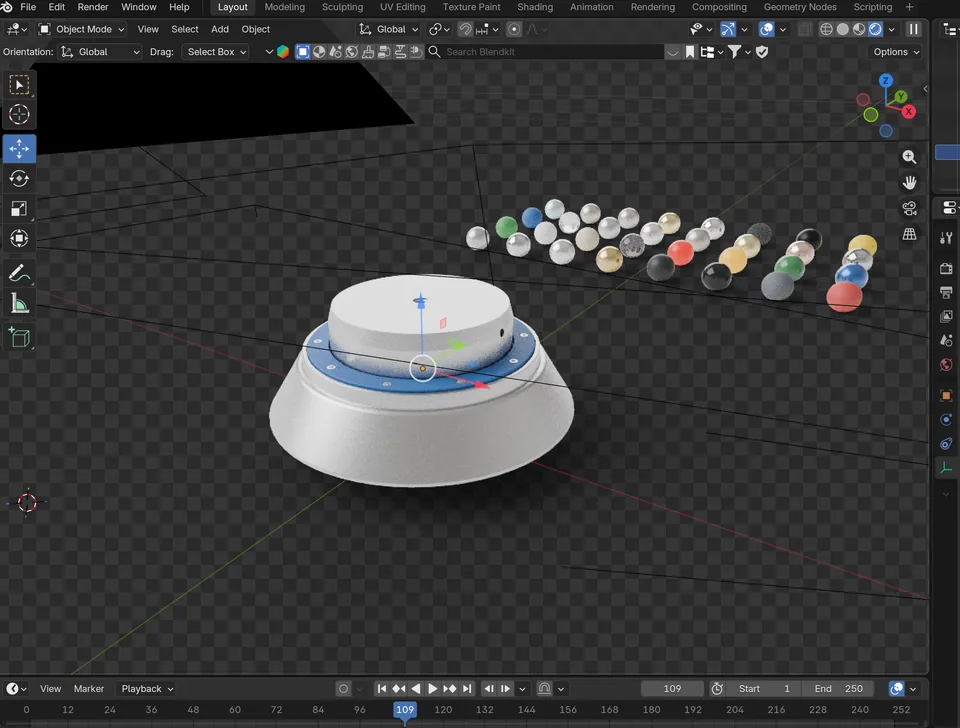
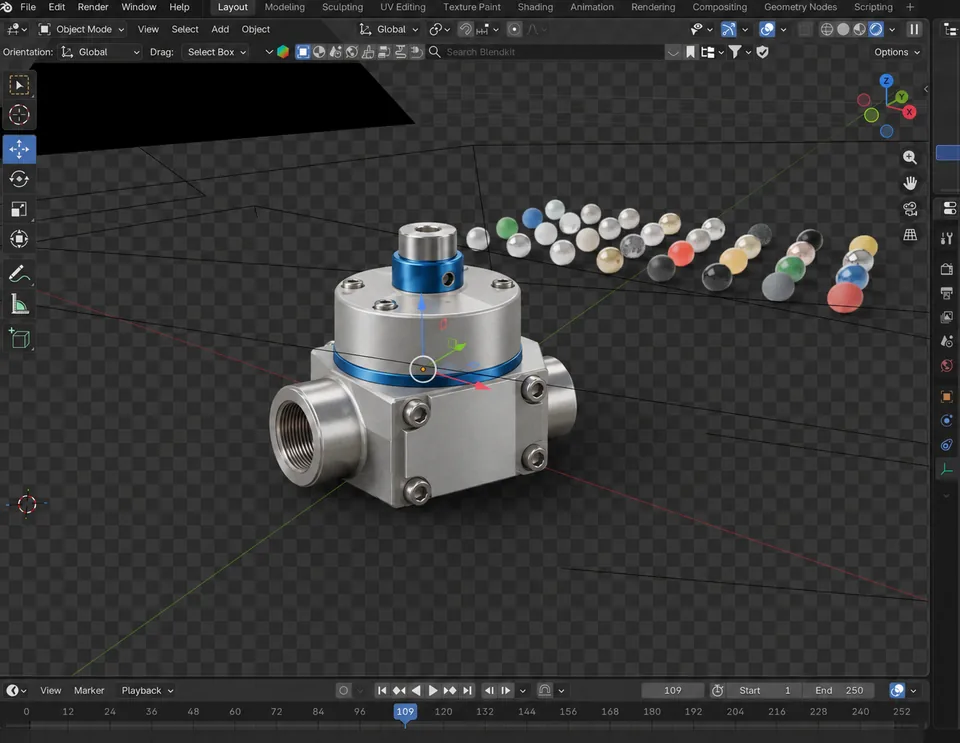
Corrige l'angle du cas Rendus 3D produits : modèles fournis ou modélisés, accent sur le rendu propre et répétable

diff --git a/realisations.html b/realisations.html
@@ -128,7 +128,7 @@
 <a href="index.html#contact" class="label nav-cta">Discuter du projet</a></nav></noscript>
 <!-- shared-header:end --><main>
 <section class="expertise-hero" style="--hero-image: url('Images/optimized/social-home.jpg')"><div class="hero-inner"><p class="breadcrumb"><a href="index.html">Accueil</a><span>/</span>Réalisations Unity, XR et UI/UX : des projets documentés</p><span class="eyebrow">RM Dev Design · Romain Maunier</span><h1>Réalisations Unity, XR et UI/UX : des projets documentés</h1><p class="hero-lead">Ces études de cas présentent les projets de RM Dev Design, activité freelance de Romain Maunier à Paris et à distance. Elles décrivent le besoin, les contraintes, le travail réalisé et les résultats déjà documentés sur le site.</p><div class="hero-actions"><a class="button-primary" href="index.html#contact">Parler de votre projet</a></div></div></section>
-<section class="content-section"><div class="section-heading"><h2>15 cas pour examiner les usages et les contraintes</h2></div><div class="card-grid realization-grid"><article class="content-card realization-card"><img src="Images/optimized/ImmersiveExp-card.webp" width="960" height="438" alt="Une machine industrielle complexe transformée en scénario de formation VR, avec un environnement réaliste et une utilisation continue sur salon." loading="lazy" decoding="async"><h2>Sécurité VR</h2><p><strong>Type / secteur :</strong> Formation · Formation</p><p>Une machine industrielle complexe transformée en scénario de formation VR, avec un environnement réaliste et une utilisation continue sur salon.</p><p><strong>Technologies documentées :</strong> Unity, VR, CAO, Optimisation 3D, Formation</p><p><strong>Mon rôle :</strong> Développement de l’application Unity en équipe avec un motion designer ; intégration de l’environnement, des animations et du scénario.</p><a class="related-link" href="cas-client-securite-vr.html">Lire l’étude de cas : Sécurité VR →</a></article><article class="content-card realization-card"><img src="Images/optimized/Demonstrateur-card.webp" width="960" height="402" alt="Un démonstrateur interactif pour expliquer une chaîne de traction hybride, ses flux d&#x27;énergie et son comportement dans différentes situations de conduite." loading="lazy" decoding="async"><h2>Démonstrateur Moteur</h2><p><strong>Type / secteur :</strong> Unity HDRP · Automobile</p><p>Un démonstrateur interactif pour expliquer une chaîne de traction hybride, ses flux d'énergie et son comportement dans différentes situations de conduite.</p><p><strong>Technologies documentées :</strong> Unity, HDRP, Automobile, Visualisation, Prototype</p><!-- TODO_CONTENT: confirmer le rôle personnel exact et le partage des responsabilités pour cas-client-demonstrateur-motorisation.html avant attribution supplémentaire. --><a class="related-link" href="cas-client-demonstrateur-motorisation.html">Lire l’étude de cas : Démonstrateur Moteur →</a></article><article class="content-card realization-card"><img src="Images/optimized/Reno-card.webp" width="960" height="540" alt="Prototype automobile sous Unity" loading="lazy" decoding="async"><h2>Systèmes Embarqués</h2><p><strong>Type / secteur :</strong> Automobile · Automobile</p><p>Une application Unity autour d’un simulateur de conduite pour explorer les interactions dans un cockpit automobile.</p><p><strong>Technologie :</strong> Unity</p><p><strong>Mon rôle :</strong> Développement de l’application Unity autour du simulateur de conduite.</p><a class="related-link" href="cas-client-systemes-embarques.html">Lire l’étude de cas : Systèmes Embarqués →</a></article><article class="content-card realization-card"><img src="Images/optimized/VRinCar-card.webp" width="960" height="560" alt="Une expérience marketing immersive pour présenter le Renault Triber dans trois environnements emblématiques de l&#x27;Inde, directement depuis son habitacle." loading="lazy" decoding="async"><h2>VR in Cockpit</h2><p><strong>Type / secteur :</strong> Expérience Immersive · Automobile</p><p>Une expérience marketing immersive pour présenter le Renault Triber dans trois environnements emblématiques de l'Inde, directement depuis son habitacle.</p><p><strong>Technologies documentées :</strong> Unity, HDRP, SolidWorks, FBX, PC VR</p><!-- TODO_CONTENT: confirmer le rôle personnel exact et le partage des responsabilités pour cas-client-vr-cockpit.html avant attribution supplémentaire. --><a class="related-link" href="cas-client-vr-cockpit.html">Lire l’étude de cas : VR in Cockpit →</a></article><article class="content-card realization-card"><img src="Images/optimized/formation-immersive-poster.webp" width="1920" height="1080" alt="Une salle de réunion virtuelle et un coach IA pour analyser le discours, la voix et l&#x27;attitude sans mobiliser un formateur à chaque session." loading="lazy" decoding="async"><h2>Formation immersive</h2><p><strong>Type / secteur :</strong> Formation · IA & VR · Formation</p><p>Une salle de réunion virtuelle et un coach IA pour analyser le discours, la voix et l'attitude sans mobiliser un formateur à chaque session.</p><p><strong>Technologies documentées :</strong> Unity, Meta Quest, IA, Analyse vocale, EdTech</p><!-- TODO_CONTENT: confirmer le rôle personnel exact et le partage des responsabilités pour cas-client-formation-immersive.html avant attribution supplémentaire. --><a class="related-link" href="cas-client-formation-immersive.html">Lire l’étude de cas : Formation immersive →</a></article><article class="content-card realization-card"><img src="Images/optimized/3DPlan-card.webp" width="960" height="540" alt="Une modélisation 3D, une visite temps réel et des visuels haute définition pour valider rapidement les volumes et présenter le projet." loading="lazy" decoding="async"><h2>Visualisation 3D immobilière</h2><p><strong>Type / secteur :</strong> Immobilier · Plan 2D → 3D · Immobilier</p><p>Une modélisation 3D, une visite temps réel et des visuels haute définition pour valider rapidement les volumes et présenter le projet.</p><p><strong>Technologies documentées :</strong> DWG, SolidWorks, 3D temps réel, Walkthrough 4K, Immobilier</p><!-- TODO_CONTENT: confirmer le rôle personnel exact et le partage des responsabilités pour cas-client-plan-3d.html avant attribution supplémentaire. --><a class="related-link" href="cas-client-plan-3d.html">Lire l’étude de cas : Visualisation 3D immobilière →</a></article><article class="content-card realization-card"><img src="Images/optimized/XRSHARE-card.webp" width="960" height="749" alt="Un prototype de co-créativité à distance réunissant des participants en réalité virtuelle, en réalité augmentée et sur écran classique." loading="lazy" decoding="async"><h2>XR Share</h2><p><strong>Type / secteur :</strong> Multijoueur AR/VR · R&D</p><p>Un prototype de co-créativité à distance réunissant des participants en réalité virtuelle, en réalité augmentée et sur écran classique.</p><p><strong>Technologies documentées :</strong> Unity, Photon PUN 2, VR, AR, Multiplateforme</p><!-- TODO_CONTENT: confirmer le rôle personnel exact et le partage des responsabilités pour cas-client-xr-share.html avant attribution supplémentaire. --><a class="related-link" href="cas-client-xr-share.html">Lire l’étude de cas : XR Share →</a></article><article class="content-card realization-card"><img src="Images/optimized/VisitesVirtuelles-card.webp" width="960" height="644" alt="Transformation de plans DWG en appartement visitable à l&#x27;échelle, avec une application compatible Meta Quest 3 et un walkthrough vidéo 4K." loading="lazy" decoding="async"><h2>Visites Virtuelles</h2><p><strong>Type / secteur :</strong> Immobilier · Immobilier</p><p>Transformation de plans DWG en appartement visitable à l'échelle, avec une application compatible Meta Quest 3 et un walkthrough vidéo 4K.</p><p><strong>Technologies documentées :</strong> Unity, URP, SolidWorks, Compatible Meta Quest 3, C#</p><!-- TODO_CONTENT: confirmer le rôle personnel exact et le partage des responsabilités pour cas-client-visite-vr-immobilier.html avant attribution supplémentaire. --><a class="related-link" href="cas-client-visite-vr-immobilier.html">Lire l’étude de cas : Visites Virtuelles →</a></article><article class="content-card realization-card"><img src="Images/optimized/Calypshome-card.webp" width="960" height="807" alt="Conception complète d&#x27;une application mobile pilotant volets, stores et brise-soleil orientables, depuis le cahier des charges jusqu&#x27;au kit développeur." loading="lazy" decoding="async"><h2>App Domotique</h2><p><strong>Type / secteur :</strong> UI / UX Design · UI/UX</p><p>Conception complète d'une application mobile pilotant volets, stores et brise-soleil orientables, depuis le cahier des charges jusqu'au kit développeur.</p><p><strong>Technologies documentées :</strong> Figma, Design system, Wireframes, DevMode, Mobile</p><p><strong>Mon rôle :</strong> UI/UX et livraison des maquettes et composants aux développeurs ; développement de l’application réalisé par une autre équipe.</p><a class="related-link" href="cas-client-ui-ux-domotique.html">Lire l’étude de cas : App Domotique →</a></article><article class="content-card realization-card"><img src="Images/optimized/Ergonomie-card.webp" width="960" height="776" alt="Une maquette virtuelle à l&#x27;échelle pour tester la position des commandes, les zones de confort et les amplitudes de mouvement." loading="lazy" decoding="async"><h2>Ergonomie Cockpit</h2><p><strong>Type / secteur :</strong> R&D · R&D</p><p>Une maquette virtuelle à l'échelle pour tester la position des commandes, les zones de confort et les amplitudes de mouvement.</p><p><strong>Technologies documentées :</strong> Unity, VR, Leap Motion, Ergonomie, Cockpit</p><!-- TODO_CONTENT: confirmer le rôle personnel exact et le partage des responsabilités pour cas-client-ergonomie-cockpit.html avant attribution supplémentaire. --><a class="related-link" href="cas-client-ergonomie-cockpit.html">Lire l’étude de cas : Ergonomie Cockpit →</a></article><article class="content-card realization-card"><img src="Images/optimized/AR-card.webp" width="960" height="480" alt="Une application de réalité augmentée conçue pour guider les visiteurs autour d&#x27;un véhicule et expliquer ses équipements invisibles." loading="lazy" decoding="async"><h2>Réalité Augmentée</h2><p><strong>Type / secteur :</strong> Mobile · Automobile</p><p>Une application de réalité augmentée conçue pour guider les visiteurs autour d'un véhicule et expliquer ses équipements invisibles.</p><p><strong>Technologies documentées :</strong> Unity, Vuforia, Réalité augmentée, Tablette, Optimisation 3D</p><!-- TODO_CONTENT: confirmer le rôle personnel exact et le partage des responsabilités pour cas-client-realite-augmentee-automobile.html avant attribution supplémentaire. --><a class="related-link" href="cas-client-realite-augmentee-automobile.html">Lire l’étude de cas : Réalité Augmentée →</a></article><article class="content-card realization-card"><img src="Images/optimized/ShowroomVR-card.webp" width="960" height="564" alt="Un showroom virtuel pour parcourir, comparer et configurer plus de 50 références de portes dans un espace qui tient dans un casque." loading="lazy" decoding="async"><h2>ShowRoom VR</h2><p><strong>Type / secteur :</strong> Réalité Virtuelle · Commerce</p><p>Un showroom virtuel pour parcourir, comparer et configurer plus de 50 références de portes dans un espace qui tient dans un casque.</p><p><strong>Technologies documentées :</strong> Unity, VR, Configurateur, Showroom, Catalogue 3D</p><!-- TODO_CONTENT: confirmer le rôle personnel exact et le partage des responsabilités pour cas-client-showroom-vr.html avant attribution supplémentaire. --><a class="related-link" href="cas-client-showroom-vr.html">Lire l’étude de cas : ShowRoom VR →</a></article><article class="content-card realization-card"><img src="Images/optimized/FloatAndSerious-card.webp" width="960" height="521" alt="Un configurateur 3D en réalité virtuelle pour faire varier la motorisation et les équipements d&#x27;un bateau, conçu pour un hackathon étudiant." loading="lazy" decoding="async"><h2>Float and Serious</h2><p><strong>Type / secteur :</strong> Hackathon · Pédagogie</p><p>Un hackathon de trois jours à CentraleSupélec, dans le cadre du parcours doctoral DRIVE : des expériences VR pour ancrer les équipes dans des situations réelles, dont le configurateur 3D du projet étudiant Float and Serious.</p><p><strong>Technologies documentées :</strong> Unity, VR, Configurateur 3D, Data visualisation, Pédagogie</p><p><strong>Mon rôle :</strong> Conception et développement des expériences VR, animation des temps de visualisation de données.</p><a class="related-link" href="cas-client-float-and-serious.html">Lire l’étude de cas : Float and Serious →</a></article><article class="content-card realization-card"><img src="Images/optimized/Rendus3D-card.webp" width="960" height="728" alt="Une pièce modélisée sous Blender entourée d&#x27;une bibliothèque de matériaux, pour un pipeline de rendu 3D appliqué à un catalogue produit." loading="lazy" decoding="async"><h2>Rendus 3D produits</h2><p><strong>Type / secteur :</strong> Blender · Production 3D</p><p>Plus de 300 pièces modélisées et rendues sous Blender pour mettre à jour le catalogue visuel d’un site e-commerce, sans mobiliser de studio photo.</p><p><strong>Technologie :</strong> Blender</p><p><strong>Mon rôle :</strong> Modélisation, bibliothèque de matériaux et rendu de l’ensemble des pièces du catalogue.</p><a class="related-link" href="cas-client-rendus-3d-produits.html">Lire l’étude de cas : Rendus 3D produits →</a></article><article class="content-card realization-card"><img src="Images/optimized/FlightControl-card.webp" width="960" height="500" alt="Une interface 3D d&#x27;avion avec horizon artificiel et indicateurs de vol, pilotée par les données d&#x27;un capteur externe pour des travaux dirigés." loading="lazy" decoding="async"><h2>Flight Control</h2><p><strong>Type / secteur :</strong> Pédagogie · Web 3D</p><p>Une interface pour travaux dirigés étudiants : intégrer les données d’un capteur externe pour piloter en temps réel un horizon artificiel, le tangage, l’altitude et le cap d’un avion en 3D.</p><p><strong>Technologies documentées :</strong> Three.js, Web 3D, Capteurs externes, Pédagogie</p><p><strong>Mon rôle :</strong> Conception et développement de l’interface 3D et de l’intégration des données capteurs.</p><a class="related-link" href="cas-client-flight-control.html">Lire l’étude de cas : Flight Control →</a></article></div></section><aside class="expertise-cta"><div><h2>Un besoin à rendre concret ?</h2><p>Présentez l’objectif, le matériel, les contenus disponibles et l’échéance. Le premier échange sert à cadrer un livrable et les conditions de validation.</p></div><a class="button-primary" href="index.html#contact">Parler de votre projet</a></aside>
+<section class="content-section"><div class="section-heading"><h2>15 cas pour examiner les usages et les contraintes</h2></div><div class="card-grid realization-grid"><article class="content-card realization-card"><img src="Images/optimized/ImmersiveExp-card.webp" width="960" height="438" alt="Une machine industrielle complexe transformée en scénario de formation VR, avec un environnement réaliste et une utilisation continue sur salon." loading="lazy" decoding="async"><h2>Sécurité VR</h2><p><strong>Type / secteur :</strong> Formation · Formation</p><p>Une machine industrielle complexe transformée en scénario de formation VR, avec un environnement réaliste et une utilisation continue sur salon.</p><p><strong>Technologies documentées :</strong> Unity, VR, CAO, Optimisation 3D, Formation</p><p><strong>Mon rôle :</strong> Développement de l’application Unity en équipe avec un motion designer ; intégration de l’environnement, des animations et du scénario.</p><a class="related-link" href="cas-client-securite-vr.html">Lire l’étude de cas : Sécurité VR →</a></article><article class="content-card realization-card"><img src="Images/optimized/Demonstrateur-card.webp" width="960" height="402" alt="Un démonstrateur interactif pour expliquer une chaîne de traction hybride, ses flux d&#x27;énergie et son comportement dans différentes situations de conduite." loading="lazy" decoding="async"><h2>Démonstrateur Moteur</h2><p><strong>Type / secteur :</strong> Unity HDRP · Automobile</p><p>Un démonstrateur interactif pour expliquer une chaîne de traction hybride, ses flux d'énergie et son comportement dans différentes situations de conduite.</p><p><strong>Technologies documentées :</strong> Unity, HDRP, Automobile, Visualisation, Prototype</p><!-- TODO_CONTENT: confirmer le rôle personnel exact et le partage des responsabilités pour cas-client-demonstrateur-motorisation.html avant attribution supplémentaire. --><a class="related-link" href="cas-client-demonstrateur-motorisation.html">Lire l’étude de cas : Démonstrateur Moteur →</a></article><article class="content-card realization-card"><img src="Images/optimized/Reno-card.webp" width="960" height="540" alt="Prototype automobile sous Unity" loading="lazy" decoding="async"><h2>Systèmes Embarqués</h2><p><strong>Type / secteur :</strong> Automobile · Automobile</p><p>Une application Unity autour d’un simulateur de conduite pour explorer les interactions dans un cockpit automobile.</p><p><strong>Technologie :</strong> Unity</p><p><strong>Mon rôle :</strong> Développement de l’application Unity autour du simulateur de conduite.</p><a class="related-link" href="cas-client-systemes-embarques.html">Lire l’étude de cas : Systèmes Embarqués →</a></article><article class="content-card realization-card"><img src="Images/optimized/VRinCar-card.webp" width="960" height="560" alt="Une expérience marketing immersive pour présenter le Renault Triber dans trois environnements emblématiques de l&#x27;Inde, directement depuis son habitacle." loading="lazy" decoding="async"><h2>VR in Cockpit</h2><p><strong>Type / secteur :</strong> Expérience Immersive · Automobile</p><p>Une expérience marketing immersive pour présenter le Renault Triber dans trois environnements emblématiques de l'Inde, directement depuis son habitacle.</p><p><strong>Technologies documentées :</strong> Unity, HDRP, SolidWorks, FBX, PC VR</p><!-- TODO_CONTENT: confirmer le rôle personnel exact et le partage des responsabilités pour cas-client-vr-cockpit.html avant attribution supplémentaire. --><a class="related-link" href="cas-client-vr-cockpit.html">Lire l’étude de cas : VR in Cockpit →</a></article><article class="content-card realization-card"><img src="Images/optimized/formation-immersive-poster.webp" width="1920" height="1080" alt="Une salle de réunion virtuelle et un coach IA pour analyser le discours, la voix et l&#x27;attitude sans mobiliser un formateur à chaque session." loading="lazy" decoding="async"><h2>Formation immersive</h2><p><strong>Type / secteur :</strong> Formation · IA & VR · Formation</p><p>Une salle de réunion virtuelle et un coach IA pour analyser le discours, la voix et l'attitude sans mobiliser un formateur à chaque session.</p><p><strong>Technologies documentées :</strong> Unity, Meta Quest, IA, Analyse vocale, EdTech</p><!-- TODO_CONTENT: confirmer le rôle personnel exact et le partage des responsabilités pour cas-client-formation-immersive.html avant attribution supplémentaire. --><a class="related-link" href="cas-client-formation-immersive.html">Lire l’étude de cas : Formation immersive →</a></article><article class="content-card realization-card"><img src="Images/optimized/3DPlan-card.webp" width="960" height="540" alt="Une modélisation 3D, une visite temps réel et des visuels haute définition pour valider rapidement les volumes et présenter le projet." loading="lazy" decoding="async"><h2>Visualisation 3D immobilière</h2><p><strong>Type / secteur :</strong> Immobilier · Plan 2D → 3D · Immobilier</p><p>Une modélisation 3D, une visite temps réel et des visuels haute définition pour valider rapidement les volumes et présenter le projet.</p><p><strong>Technologies documentées :</strong> DWG, SolidWorks, 3D temps réel, Walkthrough 4K, Immobilier</p><!-- TODO_CONTENT: confirmer le rôle personnel exact et le partage des responsabilités pour cas-client-plan-3d.html avant attribution supplémentaire. --><a class="related-link" href="cas-client-plan-3d.html">Lire l’étude de cas : Visualisation 3D immobilière →</a></article><article class="content-card realization-card"><img src="Images/optimized/XRSHARE-card.webp" width="960" height="749" alt="Un prototype de co-créativité à distance réunissant des participants en réalité virtuelle, en réalité augmentée et sur écran classique." loading="lazy" decoding="async"><h2>XR Share</h2><p><strong>Type / secteur :</strong> Multijoueur AR/VR · R&D</p><p>Un prototype de co-créativité à distance réunissant des participants en réalité virtuelle, en réalité augmentée et sur écran classique.</p><p><strong>Technologies documentées :</strong> Unity, Photon PUN 2, VR, AR, Multiplateforme</p><!-- TODO_CONTENT: confirmer le rôle personnel exact et le partage des responsabilités pour cas-client-xr-share.html avant attribution supplémentaire. --><a class="related-link" href="cas-client-xr-share.html">Lire l’étude de cas : XR Share →</a></article><article class="content-card realization-card"><img src="Images/optimized/VisitesVirtuelles-card.webp" width="960" height="644" alt="Transformation de plans DWG en appartement visitable à l&#x27;échelle, avec une application compatible Meta Quest 3 et un walkthrough vidéo 4K." loading="lazy" decoding="async"><h2>Visites Virtuelles</h2><p><strong>Type / secteur :</strong> Immobilier · Immobilier</p><p>Transformation de plans DWG en appartement visitable à l'échelle, avec une application compatible Meta Quest 3 et un walkthrough vidéo 4K.</p><p><strong>Technologies documentées :</strong> Unity, URP, SolidWorks, Compatible Meta Quest 3, C#</p><!-- TODO_CONTENT: confirmer le rôle personnel exact et le partage des responsabilités pour cas-client-visite-vr-immobilier.html avant attribution supplémentaire. --><a class="related-link" href="cas-client-visite-vr-immobilier.html">Lire l’étude de cas : Visites Virtuelles →</a></article><article class="content-card realization-card"><img src="Images/optimized/Calypshome-card.webp" width="960" height="807" alt="Conception complète d&#x27;une application mobile pilotant volets, stores et brise-soleil orientables, depuis le cahier des charges jusqu&#x27;au kit développeur." loading="lazy" decoding="async"><h2>App Domotique</h2><p><strong>Type / secteur :</strong> UI / UX Design · UI/UX</p><p>Conception complète d'une application mobile pilotant volets, stores et brise-soleil orientables, depuis le cahier des charges jusqu'au kit développeur.</p><p><strong>Technologies documentées :</strong> Figma, Design system, Wireframes, DevMode, Mobile</p><p><strong>Mon rôle :</strong> UI/UX et livraison des maquettes et composants aux développeurs ; développement de l’application réalisé par une autre équipe.</p><a class="related-link" href="cas-client-ui-ux-domotique.html">Lire l’étude de cas : App Domotique →</a></article><article class="content-card realization-card"><img src="Images/optimized/Ergonomie-card.webp" width="960" height="776" alt="Une maquette virtuelle à l&#x27;échelle pour tester la position des commandes, les zones de confort et les amplitudes de mouvement." loading="lazy" decoding="async"><h2>Ergonomie Cockpit</h2><p><strong>Type / secteur :</strong> R&D · R&D</p><p>Une maquette virtuelle à l'échelle pour tester la position des commandes, les zones de confort et les amplitudes de mouvement.</p><p><strong>Technologies documentées :</strong> Unity, VR, Leap Motion, Ergonomie, Cockpit</p><!-- TODO_CONTENT: confirmer le rôle personnel exact et le partage des responsabilités pour cas-client-ergonomie-cockpit.html avant attribution supplémentaire. --><a class="related-link" href="cas-client-ergonomie-cockpit.html">Lire l’étude de cas : Ergonomie Cockpit →</a></article><article class="content-card realization-card"><img src="Images/optimized/AR-card.webp" width="960" height="480" alt="Une application de réalité augmentée conçue pour guider les visiteurs autour d&#x27;un véhicule et expliquer ses équipements invisibles." loading="lazy" decoding="async"><h2>Réalité Augmentée</h2><p><strong>Type / secteur :</strong> Mobile · Automobile</p><p>Une application de réalité augmentée conçue pour guider les visiteurs autour d'un véhicule et expliquer ses équipements invisibles.</p><p><strong>Technologies documentées :</strong> Unity, Vuforia, Réalité augmentée, Tablette, Optimisation 3D</p><!-- TODO_CONTENT: confirmer le rôle personnel exact et le partage des responsabilités pour cas-client-realite-augmentee-automobile.html avant attribution supplémentaire. --><a class="related-link" href="cas-client-realite-augmentee-automobile.html">Lire l’étude de cas : Réalité Augmentée →</a></article><article class="content-card realization-card"><img src="Images/optimized/ShowroomVR-card.webp" width="960" height="564" alt="Un showroom virtuel pour parcourir, comparer et configurer plus de 50 références de portes dans un espace qui tient dans un casque." loading="lazy" decoding="async"><h2>ShowRoom VR</h2><p><strong>Type / secteur :</strong> Réalité Virtuelle · Commerce</p><p>Un showroom virtuel pour parcourir, comparer et configurer plus de 50 références de portes dans un espace qui tient dans un casque.</p><p><strong>Technologies documentées :</strong> Unity, VR, Configurateur, Showroom, Catalogue 3D</p><!-- TODO_CONTENT: confirmer le rôle personnel exact et le partage des responsabilités pour cas-client-showroom-vr.html avant attribution supplémentaire. --><a class="related-link" href="cas-client-showroom-vr.html">Lire l’étude de cas : ShowRoom VR →</a></article><article class="content-card realization-card"><img src="Images/optimized/FloatAndSerious-card.webp" width="960" height="521" alt="Un configurateur 3D en réalité virtuelle pour faire varier la motorisation et les équipements d&#x27;un bateau, conçu pour un hackathon étudiant." loading="lazy" decoding="async"><h2>Float and Serious</h2><p><strong>Type / secteur :</strong> Hackathon · Pédagogie</p><p>Un hackathon de trois jours à CentraleSupélec, dans le cadre du parcours doctoral DRIVE : des expériences VR pour ancrer les équipes dans des situations réelles, dont le configurateur 3D du projet étudiant Float and Serious.</p><p><strong>Technologies documentées :</strong> Unity, VR, Configurateur 3D, Data visualisation, Pédagogie</p><p><strong>Mon rôle :</strong> Conception et développement des expériences VR, animation des temps de visualisation de données.</p><a class="related-link" href="cas-client-float-and-serious.html">Lire l’étude de cas : Float and Serious →</a></article><article class="content-card realization-card"><img src="Images/optimized/Rendus3D-card.webp" width="960" height="743" alt="Une vanne industrielle modélisée sous Blender entourée d&#x27;une bibliothèque de matériaux, pour un pipeline de rendu 3D propre et répétable." loading="lazy" decoding="async"><h2>Rendus 3D produits</h2><p><strong>Type / secteur :</strong> Blender · Production 3D</p><p>Plus de 300 pièces rendues sous Blender pour un catalogue industriel, modèles fournis par le client ou modélisés, avec un rendu propre et répétable sur l’ensemble des références.</p><p><strong>Technologie :</strong> Blender</p><p><strong>Mon rôle :</strong> Modélisation des pièces non fournies en 3D, bibliothèque de matériaux et rendu de l’ensemble du catalogue.</p><a class="related-link" href="cas-client-rendus-3d-produits.html">Lire l’étude de cas : Rendus 3D produits →</a></article><article class="content-card realization-card"><img src="Images/optimized/FlightControl-card.webp" width="960" height="500" alt="Une interface 3D d&#x27;avion avec horizon artificiel et indicateurs de vol, pilotée par les données d&#x27;un capteur externe pour des travaux dirigés." loading="lazy" decoding="async"><h2>Flight Control</h2><p><strong>Type / secteur :</strong> Pédagogie · Web 3D</p><p>Une interface pour travaux dirigés étudiants : intégrer les données d’un capteur externe pour piloter en temps réel un horizon artificiel, le tangage, l’altitude et le cap d’un avion en 3D.</p><p><strong>Technologies documentées :</strong> Three.js, Web 3D, Capteurs externes, Pédagogie</p><p><strong>Mon rôle :</strong> Conception et développement de l’interface 3D et de l’intégration des données capteurs.</p><a class="related-link" href="cas-client-flight-control.html">Lire l’étude de cas : Flight Control →</a></article></div></section><aside class="expertise-cta"><div><h2>Un besoin à rendre concret ?</h2><p>Présentez l’objectif, le matériel, les contenus disponibles et l’échéance. Le premier échange sert à cadrer un livrable et les conditions de validation.</p></div><a class="button-primary" href="index.html#contact">Parler de votre projet</a></aside>
 <section class="related-section"><h2>Pour approfondir votre projet</h2><div class="related-links"><a class="related-link" href="developpement-vr-unity.html">Unity XR freelance →</a><a class="related-link" href="demonstrateur-vr-industriel.html">Démonstrateur industriel →</a><a class="related-link" href="design-ui-ux-figma.html">Design UI/UX →</a></div></section></main><footer class="expertise-footer">
     <div class="expertise-footer-inner">
       <a href="index.html"><img src="Images/RMDesignLogo.png" width="3768" height="512" loading="lazy" decoding="async" alt="RMDev.Design"></a>

diff --git a/cas-client-rendus-3d-produits.html b/cas-client-rendus-3d-produits.html
@@ -3,20 +3,20 @@
 <head>
   <meta charset="UTF-8"><meta name="viewport" content="width=device-width, initial-scale=1.0"><meta name="theme-color" content="#0f1115"><meta name="robots" content="index, follow, max-image-preview:large">
   <title>Rendus 3D produits sous Blender | RM Dev Design</title>
-  <meta name="description" content="Plus de 300 pièces modélisées et rendues sous Blender pour la mise à jour du catalogue visuel d'un site e-commerce industriel.">
+  <meta name="description" content="Plus de 300 pièces rendues sous Blender pour un catalogue industriel : modèles fournis par le client ou modélisés, rendu propre et répétable.">
   <link rel="canonical" href="https://rmdev.design/cas-client-rendus-3d-produits.html">
-  <meta property="og:title" content="300+ pièces rendues sous Blender pour un site produit">
-  <meta property="og:description" content="Un pipeline de modélisation et de rendu 3D sous Blender pour remplacer la photo produit sur un catalogue de plus de 300 références.">
+  <meta property="og:title" content="300+ pièces rendues sous Blender, propres et répétables">
+  <meta property="og:description" content="Un pipeline de rendu 3D sous Blender pour un catalogue de plus de 300 références, que le modèle soit fourni par le client ou modélisé.">
   <meta property="og:image" content="https://rmdev.design/Images/optimized/social-rendus-3d-produits.jpg">
   <meta property="og:image:width" content="1200">
   <meta property="og:image:height" content="630">
   <meta property="og:image:type" content="image/jpeg">
-  <meta property="og:image:alt" content="Capture d'écran Blender montrant un produit modélisé et une bibliothèque de matériaux">
+  <meta property="og:image:alt" content="Une vanne industrielle modélisée sous Blender entourée d'une bibliothèque de matériaux">
   <meta name="twitter:card" content="summary_large_image">
-  <meta name="twitter:title" content="300+ pièces rendues sous Blender pour un site produit">
-  <meta name="twitter:description" content="Un pipeline de modélisation et de rendu 3D sous Blender pour remplacer la photo produit sur un catalogue de plus de 300 références.">
+  <meta name="twitter:title" content="300+ pièces rendues sous Blender, propres et répétables">
+  <meta name="twitter:description" content="Un pipeline de rendu 3D sous Blender pour un catalogue de plus de 300 références, que le modèle soit fourni par le client ou modélisé.">
   <meta name="twitter:image" content="https://rmdev.design/Images/optimized/social-rendus-3d-produits.jpg">
-  <meta name="twitter:image:alt" content="Capture d'écran Blender montrant un produit modélisé et une bibliothèque de matériaux"><meta property="og:url" content="https://rmdev.design/cas-client-rendus-3d-produits.html"><meta property="og:type" content="article"><meta property="og:site_name" content="RMDev.Design">
+  <meta name="twitter:image:alt" content="Une vanne industrielle modélisée sous Blender entourée d'une bibliothèque de matériaux"><meta property="og:url" content="https://rmdev.design/cas-client-rendus-3d-produits.html"><meta property="og:type" content="article"><meta property="og:site_name" content="RMDev.Design">
   <link rel="icon" type="image/png" href="Images/logo.png"><link rel="preconnect" href="https://fonts.googleapis.com"><link rel="preconnect" href="https://fonts.gstatic.com" crossorigin><link href="https://fonts.googleapis.com/css2?family=Bricolage+Grotesque:opsz,wght@12..96,400;12..96,600;12..96,700;12..96,800&family=DM+Sans:opsz,wght@9..40,300;9..40,400;9..40,500;9..40,600&display=swap" rel="stylesheet">
   <link rel="stylesheet" href="vars.css"><link rel="stylesheet" href="expertise.css"><link rel="stylesheet" href="case-study.css">
   <link rel="stylesheet" href="signature.css">
@@ -90,7 +90,7 @@
     },
     {
       "@type": "Article",
-      "headline": "Remplacer la photo produit par le rendu 3D, à l'échelle d'un catalogue",
+      "headline": "Un rendu 3D propre et répétable pour un catalogue de plus de 300 pièces",
       "datePublished": "2026-10-08",
       "dateModified": "2026-10-08",
       "image": "https://rmdev.design/Images/Rendus3D.webp",
@@ -159,12 +159,12 @@
 <a href="index.html#contact" class="label nav-cta">Discuter du projet</a></nav></noscript>
 <!-- shared-header:end -->
   <main>
-    <section class="case-hero" style="--case-image: url('Images/Rendus3D.webp')"><div class="case-hero-inner"><a class="case-back-link" href="realisations.html">Retour aux réalisations</a><p class="breadcrumb"><a href="index.html">Accueil</a><span>/</span><a href="realisations.html">Réalisations</a><span>/</span>Rendus 3D produits</p><span class="eyebrow">Blender · Production 3D · E-commerce</span><h1>Remplacer la photo produit par le rendu 3D, à l'échelle d'un catalogue</h1><p class="case-lead">Plus de 300 pièces modélisées et rendues sous Blender pour mettre à jour le catalogue visuel d'un site e-commerce, sans mobiliser de studio photo.</p><p class="case-result">Résultat : 300+ pièces rendues et livrées pour le site</p></div></section>
-    <section class="case-section"><div class="case-section-heading"><h2>Le contexte</h2><div class="case-copy"><p>Un client disposait d'un catalogue de plusieurs centaines de références à présenter sur son site. Plutôt que d'organiser une prise de vue studio pour chaque pièce, l'option retenue a été un pipeline de modélisation et de rendu 3D sous Blender.</p></div></div></section>
-    <section class="case-section"><div class="case-section-heading"><h2>Le défi</h2><div class="case-copy"><ul class="case-list"><li>Traiter un volume important de références (300+ pièces) avec un rendu visuel cohérent sur l'ensemble du catalogue.</li><li>Reproduire fidèlement les matériaux et finitions pour que le rendu remplace la photo produit sans perte de crédibilité.</li><li>Construire une bibliothèque de matériaux réutilisable plutôt que de régler chaque rendu séparément.</li><li>Tenir un calendrier de livraison compatible avec la mise à jour du site.</li></ul></div></div></section>
-    <section class="case-section"><div class="case-section-heading"><h2>La réalisation</h2><div class="case-copy"><p>Chaque pièce a été modélisée puis rendue sous Blender à partir d'une bibliothèque de matériaux (plastiques, métaux, verres, finitions mates et brillantes) construite pour couvrir l'ensemble du catalogue. Cette approche a permis de traiter plus de 300 pièces avec un rendu visuel homogène, livré directement dans des formats exploitables pour le site.</p><div class="case-tags"><span class="case-tag">Blender</span><span class="case-tag">Rendu 3D</span><span class="case-tag">Production</span><span class="case-tag">Bibliothèque de matériaux</span><span class="case-tag">E-commerce</span></div></div></div></section>
-    <section class="case-section"><div class="case-section-heading"><h2>Les choix qui rendent le dispositif exploitable</h2><div class="case-copy"><h3>Une bibliothèque de matériaux pour aller vite</h3><p>Construire les matériaux une fois puis les réutiliser sur l'ensemble du catalogue évite de régler chaque rendu depuis zéro.</p><h3>Un pipeline pensé pour le volume</h3><p>Au-delà de quelques pièces, le rendu 3D devient affaire de process autant que de modélisation : nommage, échelle, éclairage et export doivent rester cohérents sur 300+ références.</p><h3>Des rendus prêts pour le web</h3><p>Chaque rendu est livré dans un format et un poids adaptés à une mise en ligne directe, sans retouche supplémentaire côté client.</p></div></div></section>
-    <aside class="case-next"><div><span class="eyebrow">Un catalogue produit à visualiser ?</span><h2>Remplaçons la photo par le rendu 3D.</h2><p>Je peux mettre en place un pipeline de modélisation et de rendu adapté au volume de votre catalogue.</p></div><a class="button-primary" href="index.html#contact">Parlons de votre catalogue</a></aside>
+    <section class="case-hero" style="--case-image: url('Images/Rendus3D.webp')"><div class="case-hero-inner"><a class="case-back-link" href="realisations.html">Retour aux réalisations</a><p class="breadcrumb"><a href="index.html">Accueil</a><span>/</span><a href="realisations.html">Réalisations</a><span>/</span>Rendus 3D produits</p><span class="eyebrow">Blender · Production 3D · E-commerce</span><h1>Un rendu 3D propre et répétable pour un catalogue de plus de 300 pièces</h1><p class="case-lead">Selon les pièces, les modèles 3D étaient fournis par le client ou modélisés depuis zéro. Plus de 300 références ont été rendues sous Blender avec un rendu visuel propre et homogène sur l'ensemble du catalogue.</p><p class="case-result">Résultat : 300+ pièces rendues et livrées pour le site</p></div></section>
+    <section class="case-section"><div class="case-section-heading"><h2>Le contexte</h2><div class="case-copy"><p>Le client disposait d'un catalogue de plusieurs centaines de références à mettre en ligne. Une partie des pièces existait déjà en 3D, fournie par le client ; les autres ont été modélisées pour compléter le catalogue. Dans les deux cas, l'enjeu restait le même : obtenir un rendu propre et répétable sur l'ensemble des références.</p></div></div></section>
+    <section class="case-section"><div class="case-section-heading"><h2>Le défi</h2><div class="case-copy"><ul class="case-list"><li>Traiter un volume important de références (300+ pièces) avec un rendu visuel cohérent sur l'ensemble du catalogue.</li><li>Partir de modèles 3D d'origines variables (fournis par le client ou modélisés en interne) sans que cela se voie sur le rendu final.</li><li>Construire une bibliothèque de matériaux réutilisable plutôt que de régler chaque rendu séparément.</li><li>Tenir un calendrier de livraison compatible avec la mise à jour du site.</li></ul></div></div></section>
+    <section class="case-section"><div class="case-section-heading"><h2>La réalisation</h2><div class="case-copy"><p>Selon les pièces, le modèle 3D était fourni par le client ou modélisé sous Blender. Chaque pièce a ensuite été rendue à partir d'une bibliothèque de matériaux (plastiques, métaux, verres, finitions mates et brillantes) construite pour couvrir l'ensemble du catalogue. Cette approche a permis de traiter plus de 300 pièces avec un rendu visuel homogène et répétable, livré directement dans des formats exploitables pour le site.</p><div class="case-tags"><span class="case-tag">Blender</span><span class="case-tag">Rendu 3D</span><span class="case-tag">Production</span><span class="case-tag">Bibliothèque de matériaux</span><span class="case-tag">E-commerce</span></div></div></div></section>
+    <section class="case-section"><div class="case-section-heading"><h2>Les choix qui rendent le dispositif exploitable</h2><div class="case-copy"><h3>Un rendu homogène, quelle que soit l'origine du modèle</h3><p>Que la pièce soit fournie en 3D par le client ou modélisée en interne, le même pipeline d'éclairage et de matériaux garantit un rendu final cohérent sur tout le catalogue.</p><h3>Une bibliothèque de matériaux pour aller vite</h3><p>Construire les matériaux une fois puis les réutiliser sur l'ensemble du catalogue évite de régler chaque rendu depuis zéro.</p><h3>Un pipeline pensé pour le volume</h3><p>Au-delà de quelques pièces, le rendu 3D devient affaire de process autant que de modélisation : nommage, échelle, éclairage et export doivent rester cohérents sur 300+ références.</p><h3>Des rendus prêts pour le web</h3><p>Chaque rendu est livré dans un format et un poids adaptés à une mise en ligne directe, sans retouche supplémentaire côté client.</p></div></div></section>
+    <aside class="case-next"><div><span class="eyebrow">Un catalogue produit à visualiser ?</span><h2>Un rendu 3D propre et répétable pour votre catalogue.</h2><p>Je peux mettre en place un pipeline de rendu adapté au volume de votre catalogue, à partir de vos modèles 3D ou en les modélisant.</p></div><a class="button-primary" href="index.html#contact">Parlons de votre catalogue</a></aside>
   </main>
   <footer class="expertise-footer"><div class="expertise-footer-inner"><a href="index.html"><img src="Images/RMDesignLogo.png" width="3768" height="512" loading="lazy" alt="RMDev.Design"></a><div class="expertise-footer-links"><span>© 2026 RMDev.Design</span><a href="prototypage-interactif.html">Prototypage</a><a href="realisations.html">Réalisations</a><a href="confidentialite.html">Confidentialité</a></div></div></footer>
   <script src="signature.js" defer></script>

diff --git a/index.html b/index.html
@@ -424,7 +424,7 @@
 <a class="project-card-item reveal reveal-delay-1" href="cas-client-realite-augmentee-automobile.html"><div class="project-thumb"><img src="Images/optimized/AR-card.webp" alt="Une application de réalité augmentée conçue pour guider les visiteurs autour d&#x27;un véhicule et expliquer ses équipements invisibles." width="960" height="480" loading="lazy" decoding="async"><div class="project-overlay"><span class="view-project">Lire le cas client</span></div></div><div class="project-info"><h3 class="project-name">Réalité Augmentée</h3><span class="project-cat">Mobile</span><span class="project-proof">500+ démonstrations</span></div></a>
 <a class="project-card-item reveal reveal-delay-2" href="cas-client-showroom-vr.html"><div class="project-thumb"><img src="Images/optimized/ShowroomVR-card.webp" alt="Un showroom virtuel pour parcourir, comparer et configurer plus de 50 références de portes dans un espace qui tient dans un casque." width="960" height="564" loading="lazy" decoding="async"><div class="project-overlay"><span class="view-project">Lire le cas client</span></div></div><div class="project-info"><h3 class="project-name">ShowRoom VR</h3><span class="project-cat">Réalité Virtuelle</span><span class="project-proof">Gamme présentée sans stock</span></div></a>
 <a class="project-card-item reveal reveal-delay-0" href="cas-client-float-and-serious.html"><div class="project-thumb"><img src="Images/optimized/FloatAndSerious-card.webp" alt="Un configurateur 3D en réalité virtuelle pour faire varier la motorisation et les équipements d&#x27;un bateau, conçu pour un hackathon étudiant." width="960" height="521" loading="lazy" decoding="async"><div class="project-overlay"><span class="view-project">Lire le cas client</span></div></div><div class="project-info"><h3 class="project-name">Float and Serious</h3><span class="project-cat">Hackathon · Pédagogie</span><span class="project-proof">3 jours d'accompagnement VR</span></div></a>
-<a class="project-card-item reveal reveal-delay-1" href="cas-client-rendus-3d-produits.html"><div class="project-thumb"><img src="Images/optimized/Rendus3D-card.webp" alt="Une pièce modélisée sous Blender entourée d&#x27;une bibliothèque de matériaux, pour un pipeline de rendu 3D appliqué à un catalogue produit." width="960" height="728" loading="lazy" decoding="async"><div class="project-overlay"><span class="view-project">Lire le cas client</span></div></div><div class="project-info"><h3 class="project-name">Rendus 3D produits</h3><span class="project-cat">Blender · Production 3D</span><span class="project-proof">300+ pièces rendues</span></div></a>
+<a class="project-card-item reveal reveal-delay-1" href="cas-client-rendus-3d-produits.html"><div class="project-thumb"><img src="Images/optimized/Rendus3D-card.webp" alt="Une vanne industrielle modélisée sous Blender entourée d&#x27;une bibliothèque de matériaux, pour un pipeline de rendu 3D propre et répétable." width="960" height="743" loading="lazy" decoding="async"><div class="project-overlay"><span class="view-project">Lire le cas client</span></div></div><div class="project-info"><h3 class="project-name">Rendus 3D produits</h3><span class="project-cat">Blender · Production 3D</span><span class="project-proof">300+ pièces rendues</span></div></a>
 <a class="project-card-item reveal reveal-delay-2" href="cas-client-flight-control.html"><div class="project-thumb"><img src="Images/optimized/FlightControl-card.webp" alt="Une interface 3D d&#x27;avion avec horizon artificiel et indicateurs de vol, pilotée par les données d&#x27;un capteur externe pour des travaux dirigés." width="960" height="500" loading="lazy" decoding="async"><div class="project-overlay"><span class="view-project">Lire le cas client</span></div></div><div class="project-info"><h3 class="project-name">Flight Control</h3><span class="project-cat">Pédagogie · Web 3D</span><span class="project-proof">Interface 3D temps réel</span></div></a>
 <a href="#contact" class="project-card-item cta-card reveal"><div class="project-thumb"><img src="Images/optimized/Creativity-card.webp" width="960" height="476" loading="lazy" alt=""><div class="project-overlay"><span class="view-project">Me contacter</span></div></div><div class="project-info"><h3 class="project-name">Votre projet ?</h3><span class="project-cat">Parlons de votre besoin</span></div></a>
 </div>
